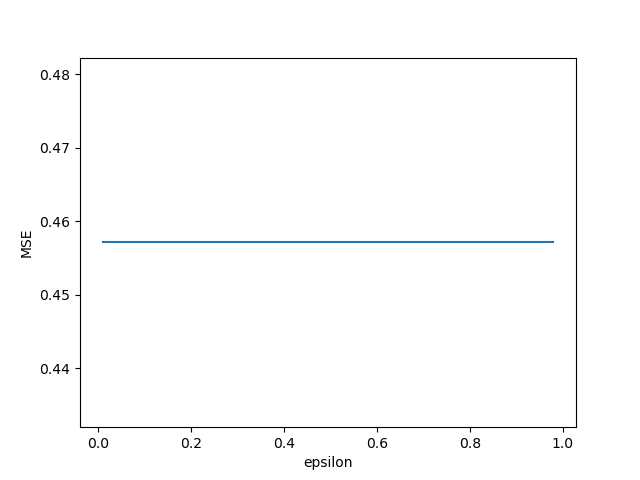
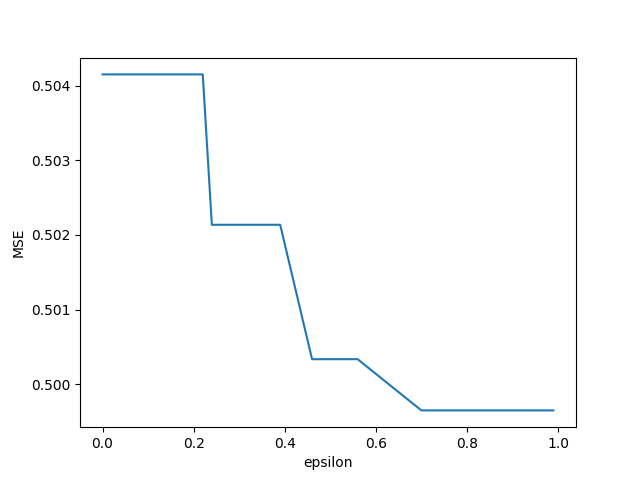
Things are working except k-means

diff --git a/Project 2/NNV.py b/Project 2/NNV.py
@@ -429,7 +429,7 @@ class NearestNeighbor:
     def tuneK(self):
         tune = {}
         self.train = pd.concat((self.samples))
-        for k in range(1,self.train**(1/2)+5):
+        for k in range(1,self.train.shape[0]**(1/2)+5):
             self.k = k
             performance = self.KNN(tune=True)
             tune[k] = performance
